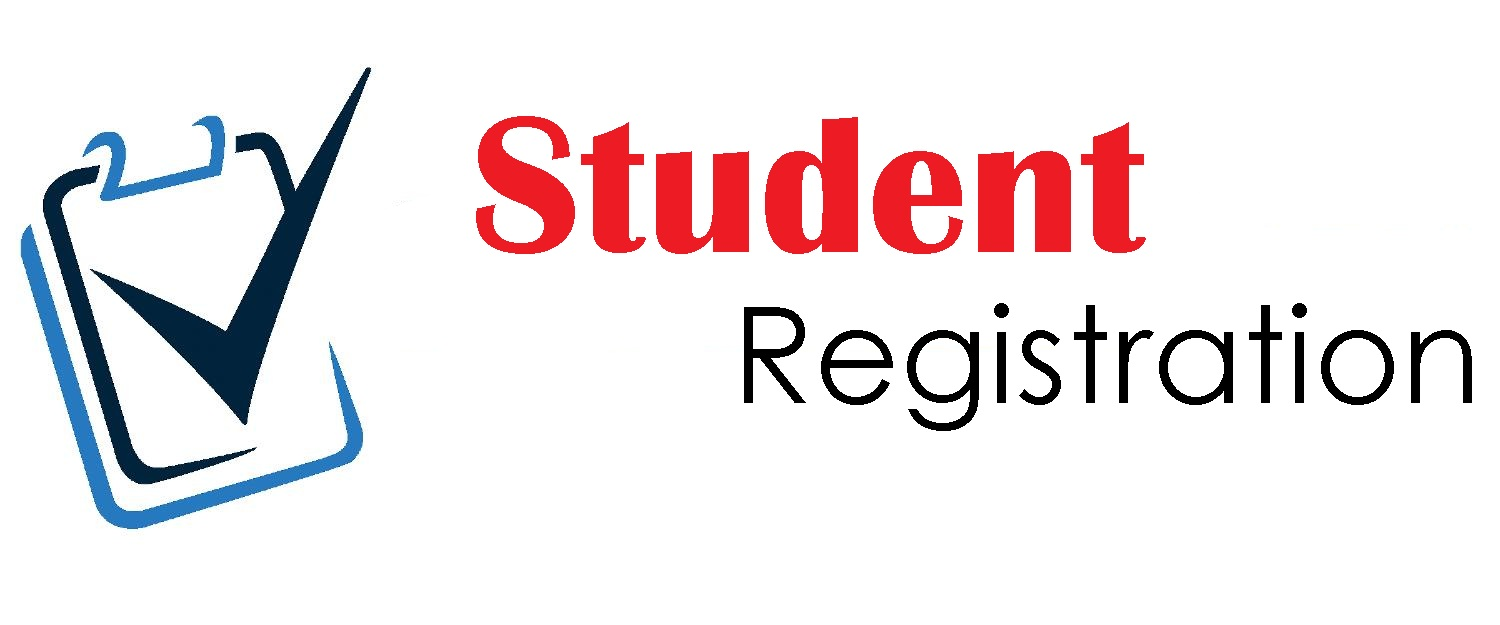
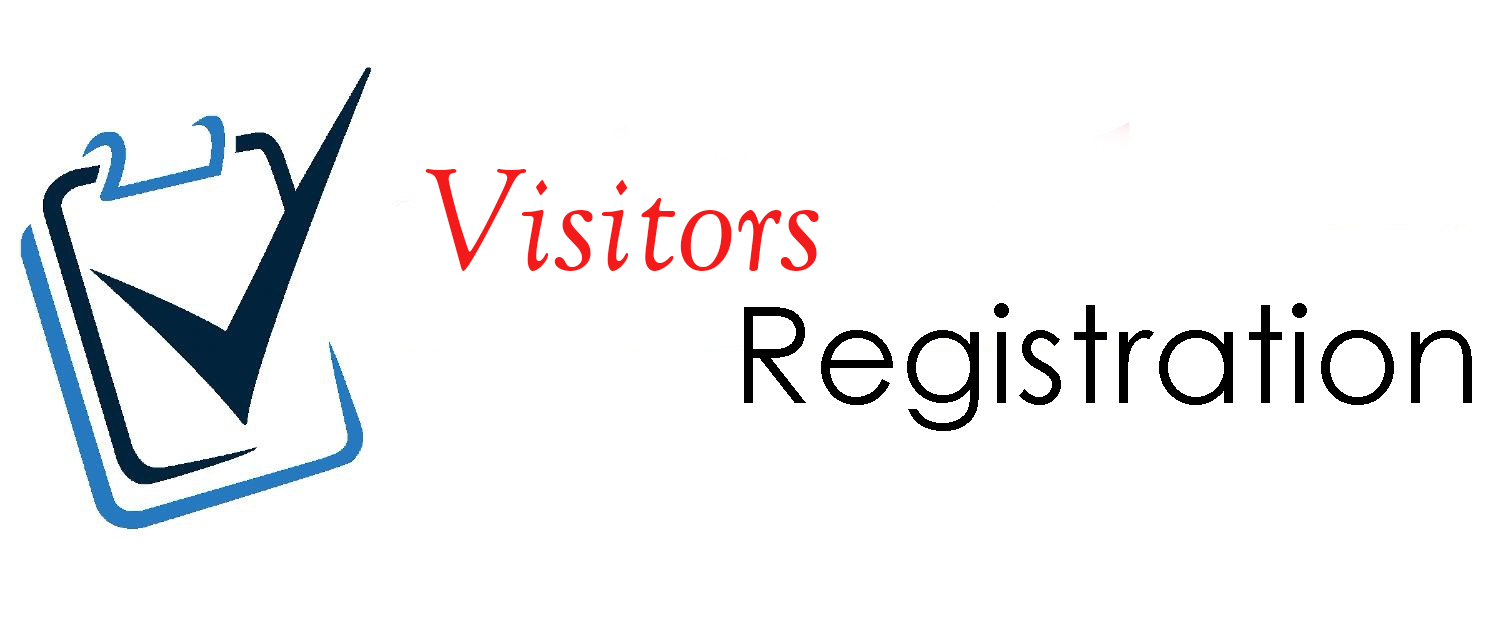
changes

Changed region(s): [[0.276, 0.1824, 0.7667, 0.456]]

diff --git a/visitor/check_in_list.php b/visitor/check_in_list.php
@@ -2,7 +2,7 @@
 <html>
 
 <head>
-  <title>Welcome to Swakop Mine Management System!!!!</title>
+  <title>Online Log Register(Visitor Management System www.grprajapat.blogspot.com)</title>
   <meta name="description" content="website description" />
   <meta name="keywords" content="website keywords, website keywords" />
   <meta http-equiv="content-type" content="text/html; charset=UTF-8" />
@@ -17,8 +17,8 @@
       <div id="logo">
         <div id="logo_text">
           <!-- class="logo_colour", allows you to change the colour of the text -->
-          <h1><a href="index.php">Welcome to Swakop Mine Management System!!!!</a></h1>
-          <h2>Visitor Management System in mine</h2>
+          <h1><a href="index.php">Online Log Register</a></h1>
+          <h2>Visitor Management System in Library</h2>
         </div>
       </div>
       <nav>
@@ -27,10 +27,9 @@
           
           <li><a href="check_in.php">Check in</a></li>
           <li><a href="check_out.php">Check Out</a></li>
-		  <li><a href="check_in_list.php">Check in List</a></li>
           <li><a href="#">Others</a>
             <ul>
-              <li><a href="search.php">Search visitors</a></li>
+              <li><a href="search.php">Search Student</a></li>
 			  
             <li><a href="#">final report</a>
                 <ul>
@@ -44,19 +43,33 @@
             
             </ul>
           </li>
-         
+          <li><a href="http://grprajapat.meximas.com/contact-us.html">Contact Us</a></li>
+        </ul>
       </nav>
     </header>
     <div id="site_content">
       
       <div id="sidebar_container">
-       
         <div class="sidebar">
-         
+          <h3>Latest News</h3>
+          <h4>New CICO System Launched</h4>
+          <h5>Sept 10th, 2014</h5>
+          <p>Check in Check Out System Design For Library. Take a look around and let us know what you think.<br /><a href="#">Read more</a></p>
+        </div>
+        <div class="sidebar">
+          <h3>Useful Links</h3>
+          <ul>
+            <li><a href="check_in.php">Check in</a></li>
+            <li><a href="check_out.php">Check out</a></li>
+            <li><a href="check_in_list.php">Currently Checked in User</a></li>
+            <li><a href="current_day_report.php">Final Report Current Day</a></li>
+			<li><a href="st_reg.php">New Student Registration</a></li>
+            <li><a href="report_between_two_dates.php">Final Report Between Two Dates</a></li>
+          </ul>
         </div>
       </div>
       <div class="content">
-        <h1>List of Check in visitors</h1>
+        <h1>List of Check in students</h1>
 		<?php
 	
 	include('config2.inc');
@@ -71,7 +84,7 @@ $result=mysql_query($sql);
 <td width="664" bordercolor="#00FF00" bgcolor="red">
 <table width="654" border="1" cellspacing="0" cellpadding="3" bgcolor="#CC0033">
 <tr>
-<td colspan="4"><strong>visitors List Which Currently Stay in mine </strong> </td>
+<td colspan="4"><strong>Student List Which Currently Stay in Library </strong> </td>
 </tr>
 
 <tr>
@@ -110,7 +123,7 @@ mysql_close();
       </div>
     </div>
     <footer>
-      <p>Copyright &copy; 2017 Welcome to Swakop Mine Management System!!!!</a></p>
+      <p>Copyright &copy; 2014 <a href="http://www.grprajapat.blogspot.com">grprajapat.blogspot.com </a> | <a href="http://www.grprajapat.meximas.com">Developed By-Govind Prajapat. </a></p>
     </footer>
   </div>
   <p>&nbsp;</p>

diff --git a/visitor/current_day_report.php b/visitor/current_day_report.php
@@ -18,7 +18,7 @@
         <div id="logo_text">
           <!-- class="logo_colour", allows you to change the colour of the text -->
           <h1><a href="index.php">Welcome to Swakop Mine Management System!!!!</a></h1>
-          <h2>Visitor Management System in mine..</h2>
+          <h2>Visitor Management System in mine</h2>
         </div>
       </div>
       <nav>
@@ -27,10 +27,9 @@
           
           <li><a href="check_in.php">Check in</a></li>
           <li><a href="check_out.php">Check Out</a></li>
-		  <li><a href="check_in_list.php">Check in List</a></li>
           <li><a href="#">Others</a>
             <ul>
-         
+              <li><a href="search.php">Search visitors</a></li>
 			  
             <li><a href="#">final report</a>
                 <ul>
@@ -44,16 +43,15 @@
             
             </ul>
           </li>
-          
+         
       </nav>
     </header>
     <div id="site_content">
       
        <div id="sidebar_container">
+     
         <div class="sidebar">
-        
-        <div class="sidebar">
-          
+         
         </div>
       </div>
       <div class="content">
@@ -72,7 +70,7 @@ $result=mysql_query($sql);
 <td width="664" bordercolor="#00FF00" bgcolor="red">
 <table width="654" border="1" cellspacing="0" cellpadding="3" bgcolor="#CC0033">
 <tr>
-<td colspan="4"><strong>visitors List Which comes in mine Today </strong> </td>
+<td colspan="4"><strong>Visitors List Which comes in mine Today </strong> </td>
 </tr>
 
 <tr>
@@ -113,7 +111,7 @@ mysql_close();
       </div>
     </div>
     <footer>
-      <p>Copyright &copy; 2014 Welcome to Swakop Mine Management System!!!!</p>
+      <p>Copyright &copy; 2017 Welcome to Swakop Mine Management System!!!!</p>
     </footer>
   </div>
   <p>&nbsp;</p>

diff --git a/visitor/manually_checkout.php b/visitor/manually_checkout.php
@@ -31,7 +31,6 @@ $checkin=($_GET['checkin_id']);
           
           <li><a href="check_in.php">Check in</a></li>
           <li><a href="check_out.php">Check Out</a></li>
-		  <li><a href="check_in_list.php">Check in List</a></li>
           <li><a href="#">Others</a>
             <ul>
               <li><a href="search.php">Search visitor</a></li>

diff --git a/visitor/check_in_ac.php b/visitor/check_in_ac.php
@@ -27,7 +27,6 @@
           
           <li><a href="check_in.php">Check in</a></li>
           <li><a href="check_out.php">Check Out</a></li>
-		  <li><a href="check_in_list.php">Check in List</a></li>
           <li><a href="#">Others</a>
             <ul>
               <li><a href="search.php">Search visitors</a></li>

diff --git a/visitor/check_out.php b/visitor/check_out.php
@@ -27,7 +27,6 @@
           
           <li><a href="check_in.php">Check in</a></li>
           <li><a href="check_out.php">Check Out</a></li>
-		  <li><a href="check_in_list.php">Check in List</a></li>
           <li><a href="#">Others</a>
             <ul>
              

diff --git a/visitor/index.php b/visitor/index.php
@@ -27,7 +27,6 @@
           
           <li><a href="check_in.php">Check in</a></li>
           <li><a href="check_out.php">Check Out</a></li>
-		  <li><a href="check_in_list.php">Check in List</a></li>
           <li><a href="#">Others</a>
             <ul>
              

diff --git a/visitor/report_between_two_dates.php b/visitor/report_between_two_dates.php
@@ -27,7 +27,6 @@
           
           <li><a href="check_in.php">Check in</a></li>
           <li><a href="check_out.php">Check Out</a></li>
-		  <li><a href="check_in_list.php">Check in List</a></li>
           <li><a href="#">Others</a>
             <ul>
              

diff --git a/visitor/report_between_two_dates_ac.php b/visitor/report_between_two_dates_ac.php
@@ -27,7 +27,6 @@
           
           <li><a href="check_in.php">Check in</a></li>
           <li><a href="check_out.php">Check Out</a></li>
-		  <li><a href="check_in_list.php">Check in List</a></li>
           <li><a href="#">Others</a>
             <ul>
              

diff --git a/visitor/st_list.php b/visitor/st_list.php
@@ -27,7 +27,6 @@
           
           <li><a href="check_in.php">Check in</a></li>
           <li><a href="check_out.php">Check Out</a></li>
-		  <li><a href="check_in_list.php">Check in List</a></li>
           <li><a href="#">Others</a>
             <ul>
              

diff --git a/visitor/check_in.php b/visitor/check_in.php
@@ -27,7 +27,6 @@
           
           <li><a href="check_in.php">Check in</a></li>
           <li><a href="check_out.php">Check Out</a></li>
-		  <li><a href="check_in_list.php">Check in List</a></li>
           <li><a href="#">Others</a>
             <ul>
             

diff --git a/visitor/search.php b/visitor/search.php
@@ -27,7 +27,6 @@
           
           <li><a href="check_in.php">Check in</a></li>
           <li><a href="check_out.php">Check Out</a></li>
-		  <li><a href="check_in_list.php">Check in List</a></li>
           <li><a href="#">Others</a>
             <ul>
             

diff --git a/visitor/st_reg.php b/visitor/st_reg.php
@@ -27,7 +27,6 @@
           
           <li><a href="check_in.php">Check in</a></li>
           <li><a href="check_out.php">Check Out</a></li>
-		  <li><a href="check_in_list.php">Check in List</a></li>
           <li><a href="#">Others</a>
             <ul>
             
